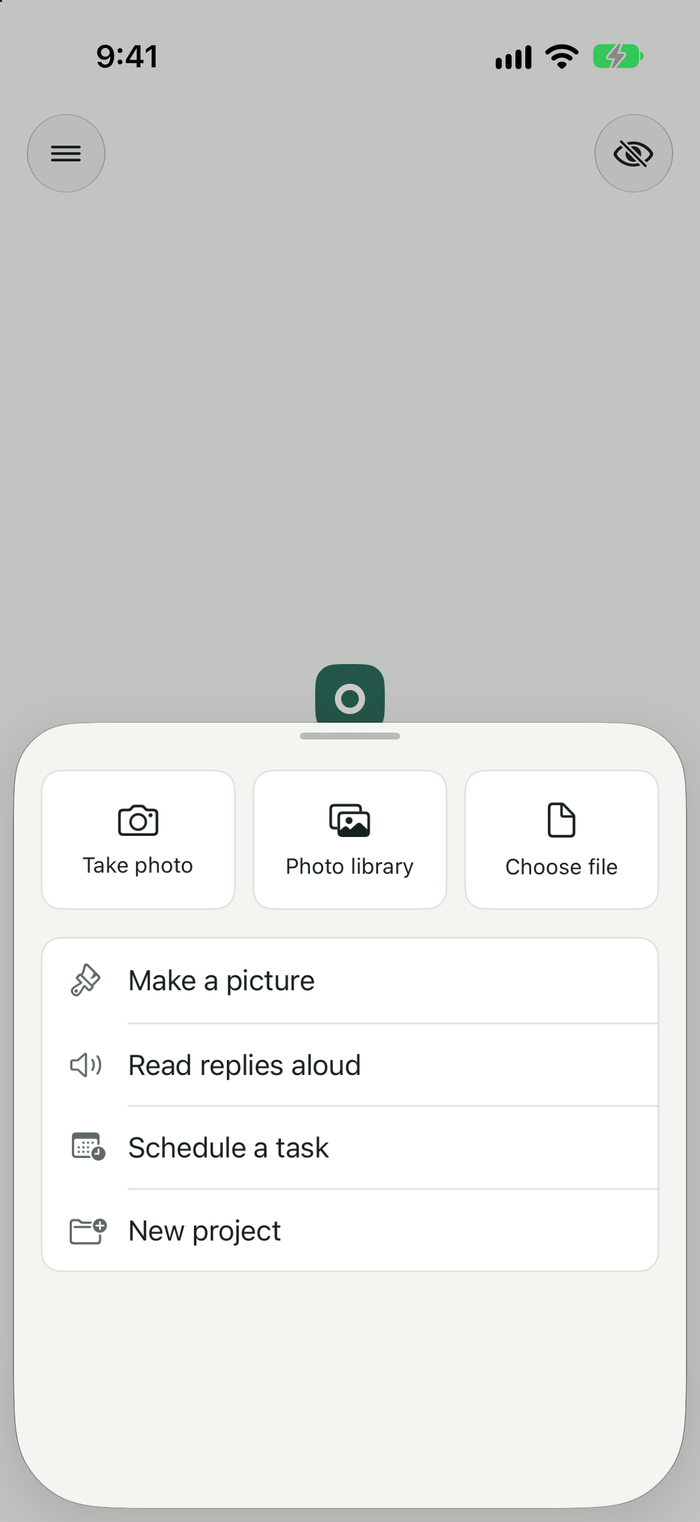
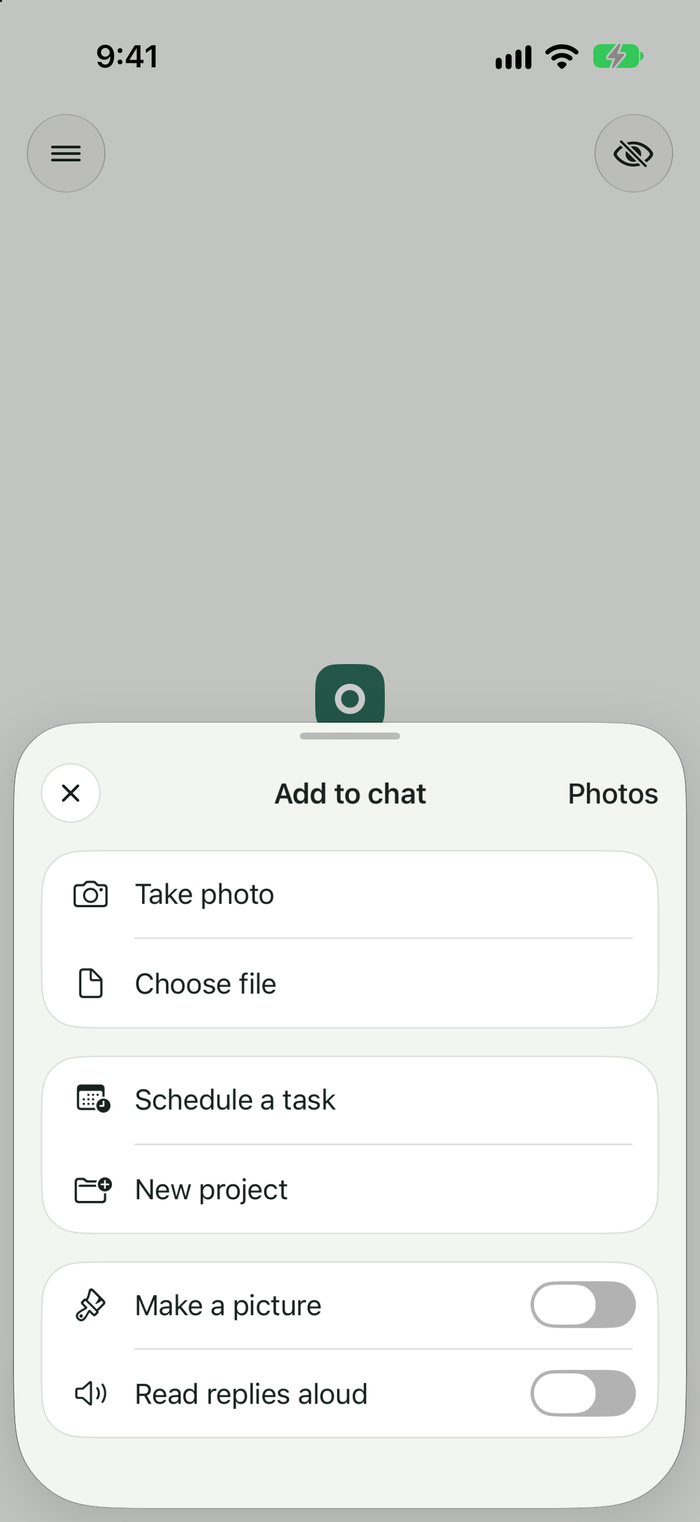
feat: lay the plus sheet out as cards of rows, with switches that stay open - Update `AttachmentSheet.swift` a heading with the way out and the photo library, cards of rows, and switches for a picture and for reading aloud - Update `AttachmentMenu.swift` group what is offered for the sheet, and thro

diff --git a/HearthKit/Sources/HearthUI/Screens/Chat/Components/AttachmentSheet.swift b/HearthKit/Sources/HearthUI/Screens/Chat/Components/AttachmentSheet.swift
@@ -1,111 +1,163 @@
 import SwiftUI
 
-/// What the plus button opens on a phone or a tablet: the things to attach as a row of large buttons, and under
-/// them the switches and the things to make, as a list.
+/// What the plus button opens on a phone or a tablet: a heading with the way out and the photo library either side
+/// of it, then cards of rows. The first card holds the things to add, the second the things to make, and the last
+/// the switches, which are thrown where they stand without closing the sheet.
 struct AttachmentSheet: View {
-    private static let tileHeight: CGFloat = 84
+    private static let closeButtonSide: CGFloat = 36
 
-    let attachments: [AttachmentChoiceKind]
-    let extras: [AttachmentChoiceKind]
+    /// The things to add to the message, and the things to make.
+    let groups: [[AttachmentChoiceKind]]
+    /// The switches: what the next message asks for, and how replies are given.
+    let switches: [AttachmentChoiceKind]
     let isEnabled: (AttachmentChoiceKind) -> Bool
     let isOn: (AttachmentChoiceKind) -> Bool
-    /// Run with what was tapped; the sheet is then closed by whoever opened it.
+    /// Run with a row that was tapped; the sheet is then closed by whoever opened it.
     let chooseAction: (AttachmentChoiceKind) -> Void
+    /// Run with a switch that was thrown; the sheet stays open.
+    let toggleAction: (AttachmentChoiceKind) -> Void
 
+    @Environment(\.dismiss) private var dismiss
     @Environment(\.dynamicTypeSize) private var dynamicTypeSize
-    @ScaledMetric(relativeTo: .body) private var rowSymbolWidth: CGFloat = 26
+    @ScaledMetric(relativeTo: .body) private var rowSymbolWidth: CGFloat = 28
 
     var body: some View {
-        ScrollView {
-            VStack(spacing: HearthSpacing.s16) {
-                // At the largest text sizes three buttons side by side would each hold a word or less.
-                if dynamicTypeSize.isAccessibilitySize {
-                    list(attachments)
-                } else {
-                    HStack(spacing: HearthSpacing.s10) {
-                        ForEach(attachments) { tile($0) }
+        VStack(spacing: 0) {
+            header
+            ScrollView {
+                VStack(spacing: HearthSpacing.s16) {
+                    ForEach(groups, id: \.self) { group in
+                        card(group) { row($0) }
                     }
+                    card(switches) { switchRow($0) }
+                        .folded(switches.isEmpty)
                 }
-                list(extras)
+                .padding(.horizontal, HearthSpacing.s16)
+                .padding(.bottom, HearthSpacing.s24)
             }
-            .padding(.horizontal, HearthSpacing.s16)
-            .padding(.top, HearthSpacing.s28)
-            .padding(.bottom, HearthSpacing.s16)
+            .scrollBounceBehavior(.basedOnSize)
         }
-        .scrollBounceBehavior(.basedOnSize)
         .background(HearthColor.paper.ignoresSafeArea())
-        .presentationDetents(dynamicTypeSize.isAccessibilitySize ? [.large] : [.medium])
+        .presentationDetents(dynamicTypeSize.isAccessibilitySize ? [.large] : [.medium, .large])
         .presentationDragIndicator(.visible)
     }
 
-    /// One of the large buttons: a symbol over its name.
-    private func tile(_ choice: AttachmentChoiceKind) -> some View {
-        let isEnabled = isEnabled(choice)
-        return Button(action: { chooseAction(choice) }, label: {
-            VStack(spacing: HearthSpacing.s8) {
-                Image(systemName: choice.systemImage)
-                    .font(.hearth(.title3))
-                    .accessibilityHidden(true)
-                Text(choice.title)
-                    .font(.hearth(.footnote))
-                    .lineLimit(2)
-                    .multilineTextAlignment(.center)
+    // MARK: The heading
+
+    /// The way out, the sheet's name, and the photo library, which is the commonest thing to add.
+    private var header: some View {
+        let canAddPhotos = isEnabled(.photoLibrary)
+        return ZStack {
+            Text(Strings.addToChat)
+                .font(.hearth(.headline))
+                .foregroundStyle(HearthColor.ink)
+                .accessibilityAddTraits(.isHeader)
+            HStack(spacing: HearthSpacing.s8) {
+                Button(action: { dismiss() }, label: {
+                    Image(systemName: "xmark")
+                        .font(.hearth(.footnote).weight(.semibold))
+                        .iconGlyphSize()
+                        .foregroundStyle(HearthColor.ink)
+                        .frame(width: Self.closeButtonSide, height: Self.closeButtonSide)
+                        .surface(Circle())
+                        .minimumHitTarget()
+                })
+                .buttonStyle(.plain)
+                .accessibilityLabel(Strings.close)
+                .frame(maxWidth: .infinity, alignment: .leading)
+                Button(action: { chooseAction(.photoLibrary) }, label: {
+                    Text(Strings.photos)
+                        .font(.hearth(.body).weight(.medium))
+                        .foregroundStyle(HearthColor.ink)
+                        .minimumHitTarget()
+                        .contentShape(Rectangle())
+                })
+                .buttonStyle(.plain)
+                .disabled(!canAddPhotos)
+                .opacity(canAddPhotos ? 1 : 0.4)
+                .accessibilityLabel(AttachmentChoiceKind.photoLibrary.title)
             }
-            .foregroundStyle(HearthColor.ink)
-            .padding(.horizontal, HearthSpacing.s6)
-            .frame(maxWidth: .infinity, minHeight: Self.tileHeight)
-            .cardSurface()
-            .contentShape(Rectangle())
-            .hoverHighlight(RoundedRectangle(cornerRadius: HearthRadius.card, style: .continuous))
-        })
-        .buttonStyle(.plain)
-        .disabled(!isEnabled)
-        .opacity(isEnabled ? 1 : 0.4)
-        .accessibilityLabel(choice.title)
+        }
+        .padding(.horizontal, HearthSpacing.s16)
+        .padding(.top, HearthSpacing.s24)
+        .padding(.bottom, HearthSpacing.s16)
     }
 
-    /// The choices one under another in a card, a switched-on one marked with a tick.
-    private func list(_ choices: [AttachmentChoiceKind]) -> some View {
+    // MARK: The cards
+
+    /// Rows one under another in a card, with a line between each two.
+    private func card(_ choices: [AttachmentChoiceKind], @ViewBuilder row: @escaping (AttachmentChoiceKind) -> some View) -> some View {
         VStack(spacing: 0) {
             ForEach(choices) { choice in
                 row(choice)
                 Hairline()
-                    .padding(.leading, HearthSpacing.s14 + rowSymbolWidth + HearthSpacing.s12)
+                    .padding(.leading, HearthSpacing.s16 + rowSymbolWidth + HearthSpacing.s12)
+                    .padding(.trailing, HearthSpacing.s16)
                     .opacity(choice == choices.last ? 0 : 1)
             }
         }
-        .cardSurface()
+        .cardSurface(radius: HearthRadius.composer)
     }
 
+    /// The symbol and the name every row begins with.
+    private func label(_ choice: AttachmentChoiceKind) -> some View {
+        HStack(spacing: HearthSpacing.s12) {
+            Image(systemName: choice.systemImage)
+                .font(.hearth(.body))
+                .foregroundStyle(HearthColor.ink)
+                .frame(width: rowSymbolWidth)
+                .accessibilityHidden(true)
+            Text(choice.title)
+                .font(.hearth(.body))
+                .foregroundStyle(HearthColor.ink)
+                .multilineTextAlignment(.leading)
+                .frame(maxWidth: .infinity, alignment: .leading)
+        }
+    }
+
+    /// A row that does something and closes the sheet.
     private func row(_ choice: AttachmentChoiceKind) -> some View {
         let isEnabled = isEnabled(choice)
-        let isOn = isOn(choice)
         return Button(action: { chooseAction(choice) }, label: {
-            HStack(spacing: HearthSpacing.s12) {
-                Image(systemName: choice.systemImage)
-                    .font(.hearth(.body))
-                    .foregroundStyle(isOn ? HearthColor.pine : HearthColor.mute)
-                    .frame(width: rowSymbolWidth)
-                    .accessibilityHidden(true)
-                Text(choice.title)
-                    .font(.hearth(.body))
-                    .foregroundStyle(HearthColor.ink)
-                    .multilineTextAlignment(.leading)
-                    .frame(maxWidth: .infinity, alignment: .leading)
-                Image(systemName: "checkmark")
-                    .font(.hearth(.footnote).weight(.semibold))
-                    .foregroundStyle(HearthColor.pine)
-                    .opacity(isOn ? 1 : 0)
-                    .accessibilityHidden(true)
-            }
-            .padding(.horizontal, HearthSpacing.s14)
-            .padding(.vertical, HearthSpacing.s14)
-            .contentShape(Rectangle())
+            label(choice)
+                .padding(.horizontal, HearthSpacing.s16)
+                .padding(.vertical, HearthSpacing.s16)
+                .contentShape(Rectangle())
         })
         .buttonStyle(.plain)
         .disabled(!isEnabled)
         .opacity(isEnabled ? 1 : 0.4)
         .accessibilityLabel(choice.title)
-        .accessibilityAddTraits(isOn ? .isSelected : [])
+    }
+
+    /// A row with a switch, thrown by a tap anywhere on the row.
+    private func switchRow(_ choice: AttachmentChoiceKind) -> some View {
+        AttachmentSwitch(isOn: isOn(choice), toggleAction: { toggleAction(choice) }, label: { label(choice) })
+            .padding(.horizontal, HearthSpacing.s16)
+            .padding(.vertical, HearthSpacing.s12)
+    }
+}
+
+/// A switch that shows what it is told is so, and asks for a change when it is thrown.
+///
+/// The switch keeps its own position while it moves and is set right again by whatever it is told, so a change
+/// that is refused, or one made elsewhere, is shown as it is.
+private struct AttachmentSwitch<Label: View>: View {
+    let isOn: Bool
+    let toggleAction: () -> Void
+    @ViewBuilder let label: () -> Label
+
+    @State private var position = false
+
+    var body: some View {
+        Toggle(isOn: $position, label: label)
+            .tint(HearthColor.pine)
+            .onAppear { position = isOn }
+            .onChange(of: isOn) { position = isOn }
+            .onChange(of: position) {
+                if position != isOn {
+                    toggleAction()
+                }
+            }
     }
 }

diff --git a/HearthKit/Sources/HearthUI/Screens/Chat/Components/AttachmentMenu.swift b/HearthKit/Sources/HearthUI/Screens/Chat/Components/AttachmentMenu.swift
@@ -103,15 +103,13 @@ struct AttachmentMenu: View {
         presenter.viewModel.selectedModel?.canSee == true || presenter.viewModel.isPictureMode
     }
 
-    /// The things to attach, in the order they are offered.
-    private var attachments: [AttachmentChoiceKind] {
-        CameraPicker.isAvailable ? [.camera, .photoLibrary, .file] : [.photoLibrary, .file]
+    /// The switches: what the next message asks for, and how replies are given.
+    private var switches: [AttachmentChoiceKind] {
+        (presenter.isPictureAvailable ? [.pictureMode] : []) + (presenter.isSpeechAvailable ? [.readAloud] : [])
     }
 
-    /// The switches and the things to make, in the order they are offered.
-    private var extras: [AttachmentChoiceKind] {
-        (presenter.isPictureAvailable ? [.pictureMode] : []) + (presenter.isSpeechAvailable ? [.readAloud] : []) + [.scheduleTask, .newProject]
-    }
+    /// The things to make.
+    private var makers: [AttachmentChoiceKind] { [.scheduleTask, .newProject] }
 
     private func isEnabled(_ choice: AttachmentChoiceKind) -> Bool {
         switch choice {
@@ -171,9 +169,9 @@ struct AttachmentMenu: View {
     #if targetEnvironment(macCatalyst)
     private var opener: some View {
         Menu {
-            ForEach(attachments) { menuButton($0) }
+            ForEach([AttachmentChoiceKind.file, .photoLibrary]) { menuButton($0) }
             Divider()
-            ForEach(extras) { menuButton($0) }
+            ForEach(switches + makers) { menuButton($0) }
         } label: {
             plus
         }
@@ -194,15 +192,17 @@ struct AttachmentMenu: View {
         Button(action: { isSheetPresented = true }, label: { plus })
             .buttonStyle(.plain)
             .sheet(isPresented: $isSheetPresented, onDismiss: performChosen) {
+                // The photo library is a button in the sheet's heading, so the first card holds the camera and files.
                 AttachmentSheet(
-                    attachments: attachments,
-                    extras: extras,
+                    groups: [(CameraPicker.isAvailable ? [.camera] : []) + [.file], makers],
+                    switches: switches,
                     isEnabled: isEnabled,
                     isOn: isOn,
                     chooseAction: { choice in
                         chosen = choice
                         isSheetPresented = false
-                    }
+                    },
+                    toggleAction: perform
                 )
             }
     }

diff --git a/HearthKit/Sources/HearthUI/Localization/Strings+Menus.swift b/HearthKit/Sources/HearthUI/Localization/Strings+Menus.swift
@@ -6,6 +6,8 @@ extension Strings {
     static let renameEllipsis = String(localized: "sidebar.renameEllipsis", defaultValue: "Rename…", bundle: .module)
     static let moveToProjectEllipsis = String(localized: "project.moveEllipsis", defaultValue: "Move to project…", bundle: .module)
     /// The composer's + button, which holds files and photos, pictures, a scheduled task and a new project.
+    static let addToChat = String(localized: "composer.addTitle", defaultValue: "Add to chat", bundle: .module)
+    static let photos = String(localized: "composer.photos", defaultValue: "Photos", bundle: .module)
     static let addMenu = String(localized: "composer.add", defaultValue: "Add", bundle: .module)
 
     static func newChatIn(project name: String) -> String {

diff --git a/README.md b/README.md
@@ -84,7 +84,7 @@ and run scheduled tasks. Nothing goes through anyone else's service unless you p
 
 | | | |
 |:---:|:---:|:---:|
-| <img src="docs/screenshots/models.png" width="240" alt="The model sheet with gemma4 on your server and two cloud models"><br>Models on your server and in the cloud | <img src="docs/screenshots/plus-menu.png" width="240" alt="The + sheet: take photo, photo library and choose file, then make a picture, read replies aloud, schedule a task and new project"><br>The + sheet | <img src="docs/screenshots/canvas.png" width="240" alt="A tip calculator page running in the canvas"><br>A page in the canvas |
+| <img src="docs/screenshots/models.png" width="240" alt="The model sheet with gemma4 on your server and two cloud models"><br>Models on your server and in the cloud | <img src="docs/screenshots/plus-menu.png" width="240" alt="The + sheet: photos, take photo and choose file, schedule a task and new project, then switches for make a picture and read replies aloud"><br>The + sheet | <img src="docs/screenshots/canvas.png" width="240" alt="A tip calculator page running in the canvas"><br>A page in the canvas |
 | <img src="docs/screenshots/voice.png" width="240" alt="A voice conversation, listening"><br>Voice conversation | <img src="docs/screenshots/project.png" width="240" alt="The chat list showing one project's chats"><br>A project's chats | <img src="docs/screenshots/project-editor.png" width="240" alt="A project's name, instructions and reference files"><br>A project's instructions |
 | <img src="docs/screenshots/settings.png" width="240" alt="Settings: profile, memory, follow-ups, web search, scheduled tasks, voice and pictures"><br>Settings | <img src="docs/screenshots/settings-bottom.png" width="240" alt="Settings: notifications, theme, vibration, the lock, servers, sync and erase"><br>More settings | <img src="docs/screenshots/memory.png" width="240" alt="The memory page with four saved memories"><br>Memory |
 | <img src="docs/screenshots/servers.png" width="240" alt="Server addresses with a successful connection test"><br>Servers | <img src="docs/screenshots/sync.png" width="240" alt="Sync with a hub address, a saved access key and sync on"><br>Sync with your hub | <img src="docs/screenshots/tasks.png" width="240" alt="Two scheduled tasks with their schedules and last runs"><br>Scheduled tasks |
